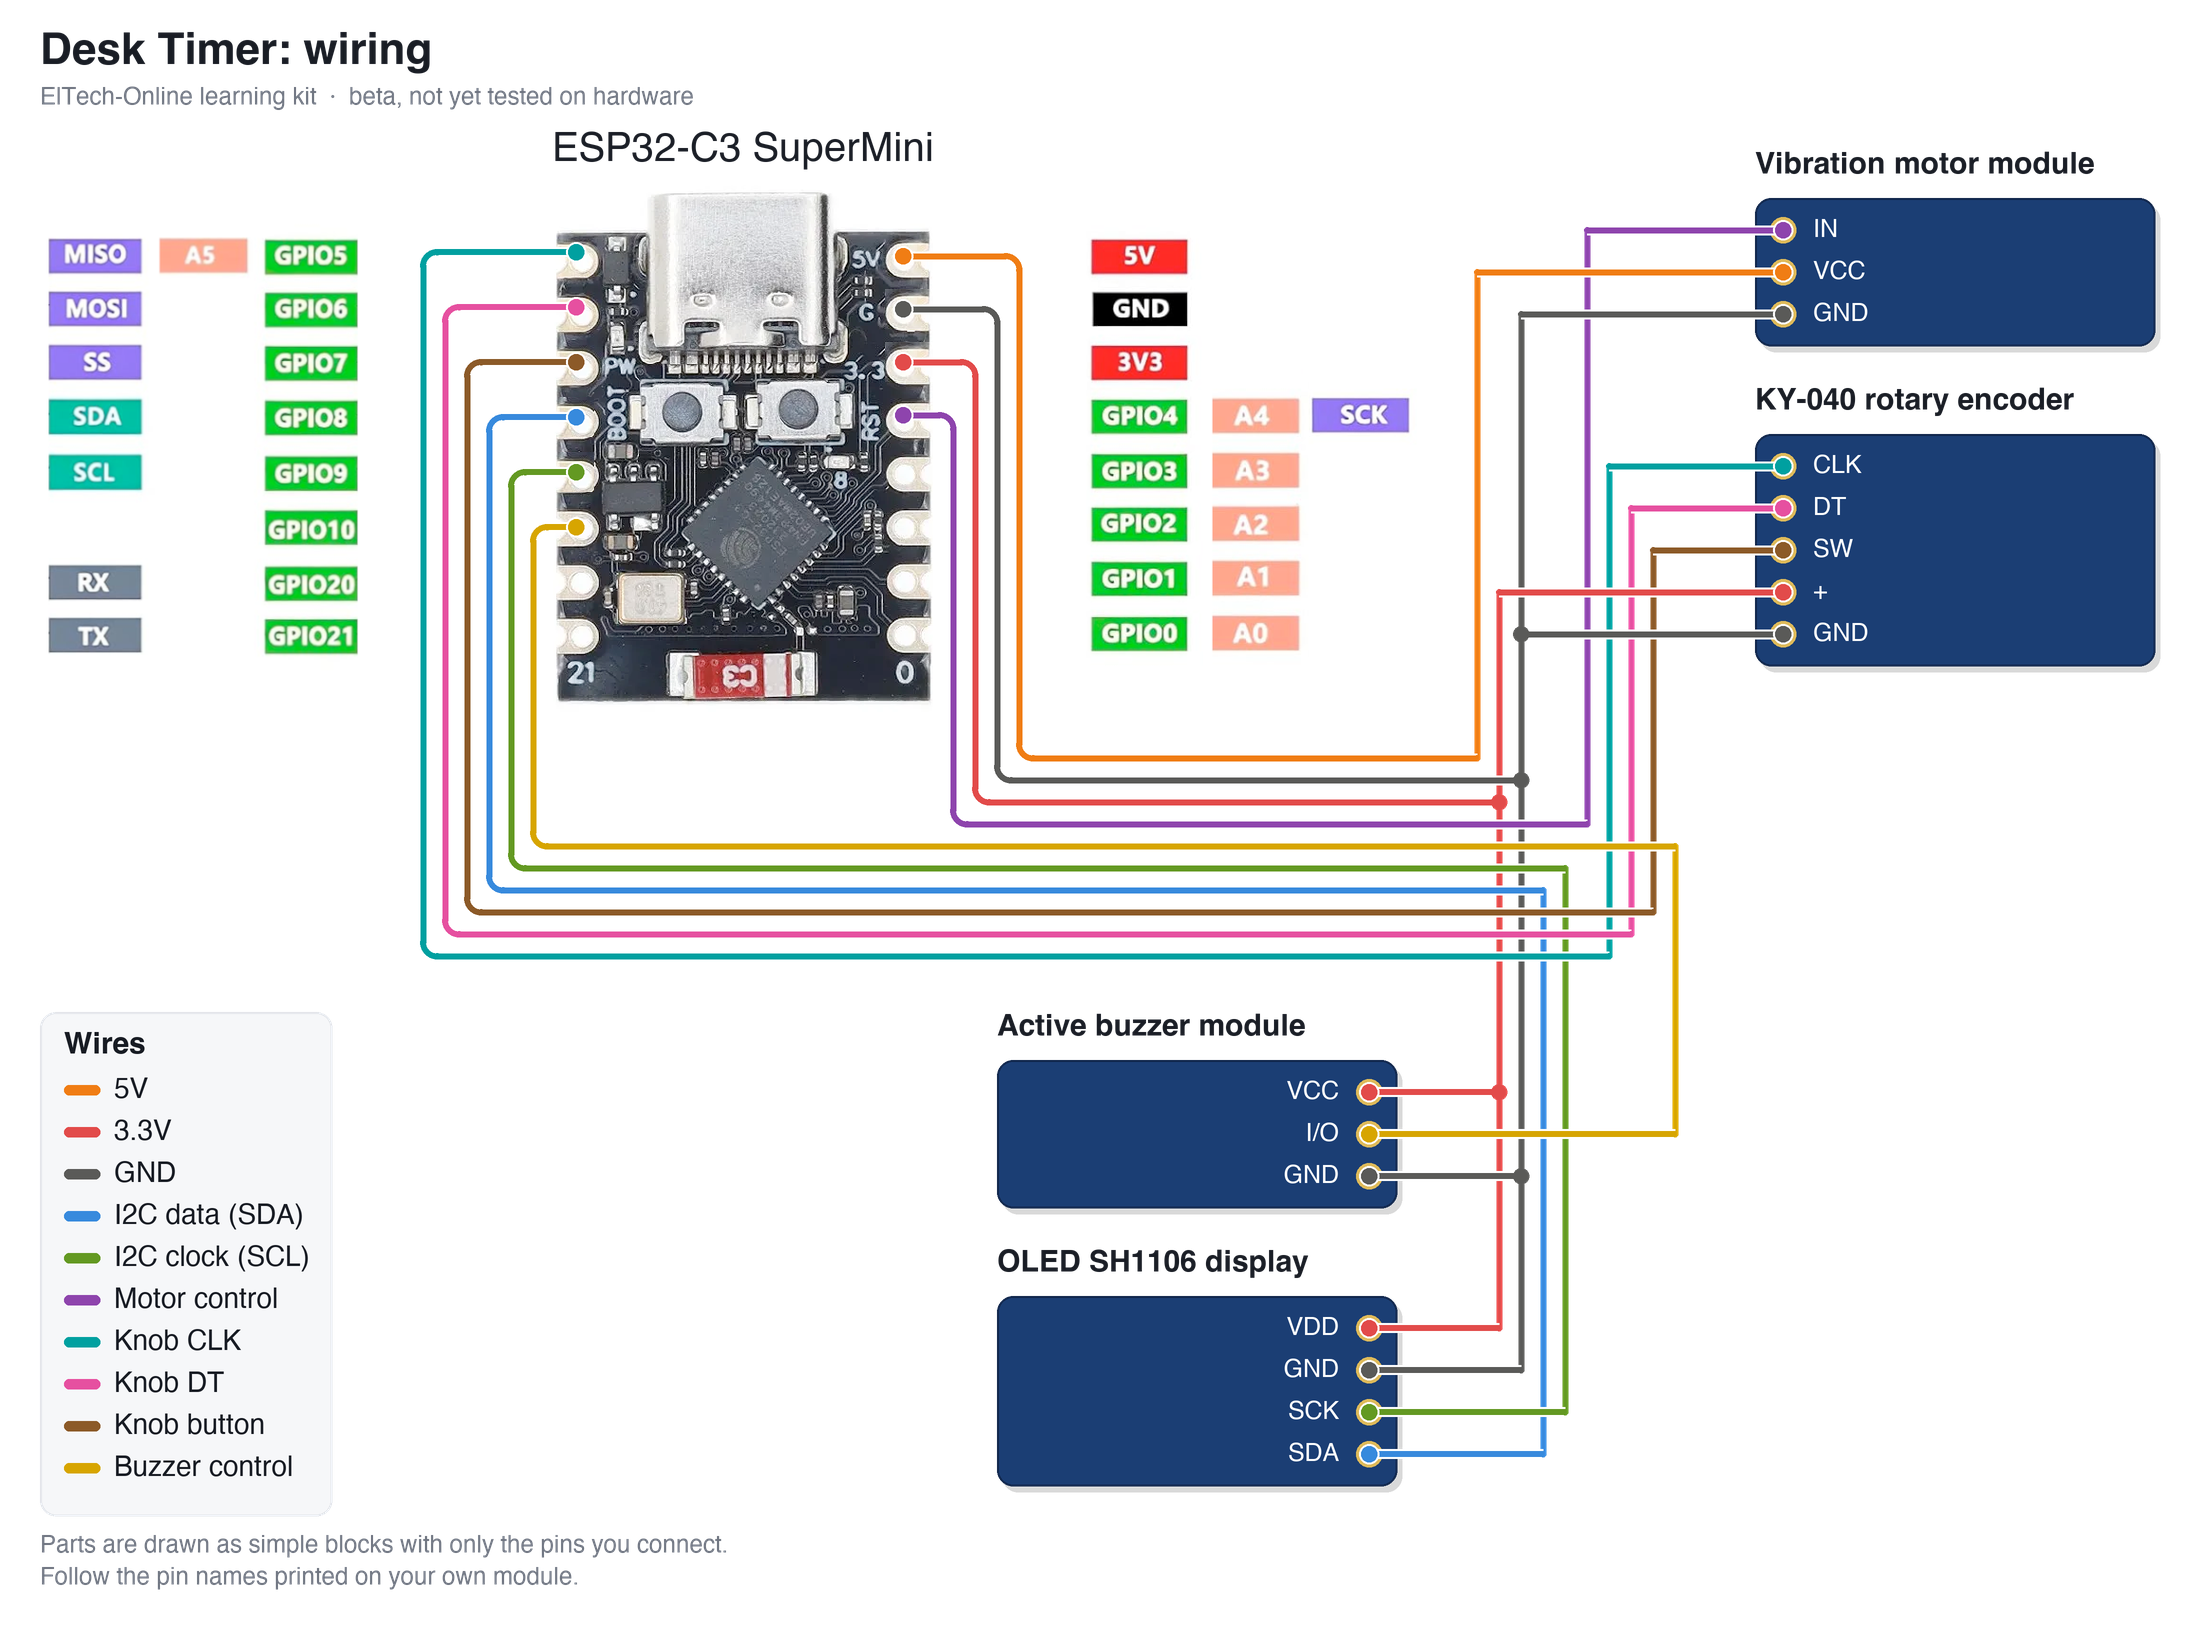
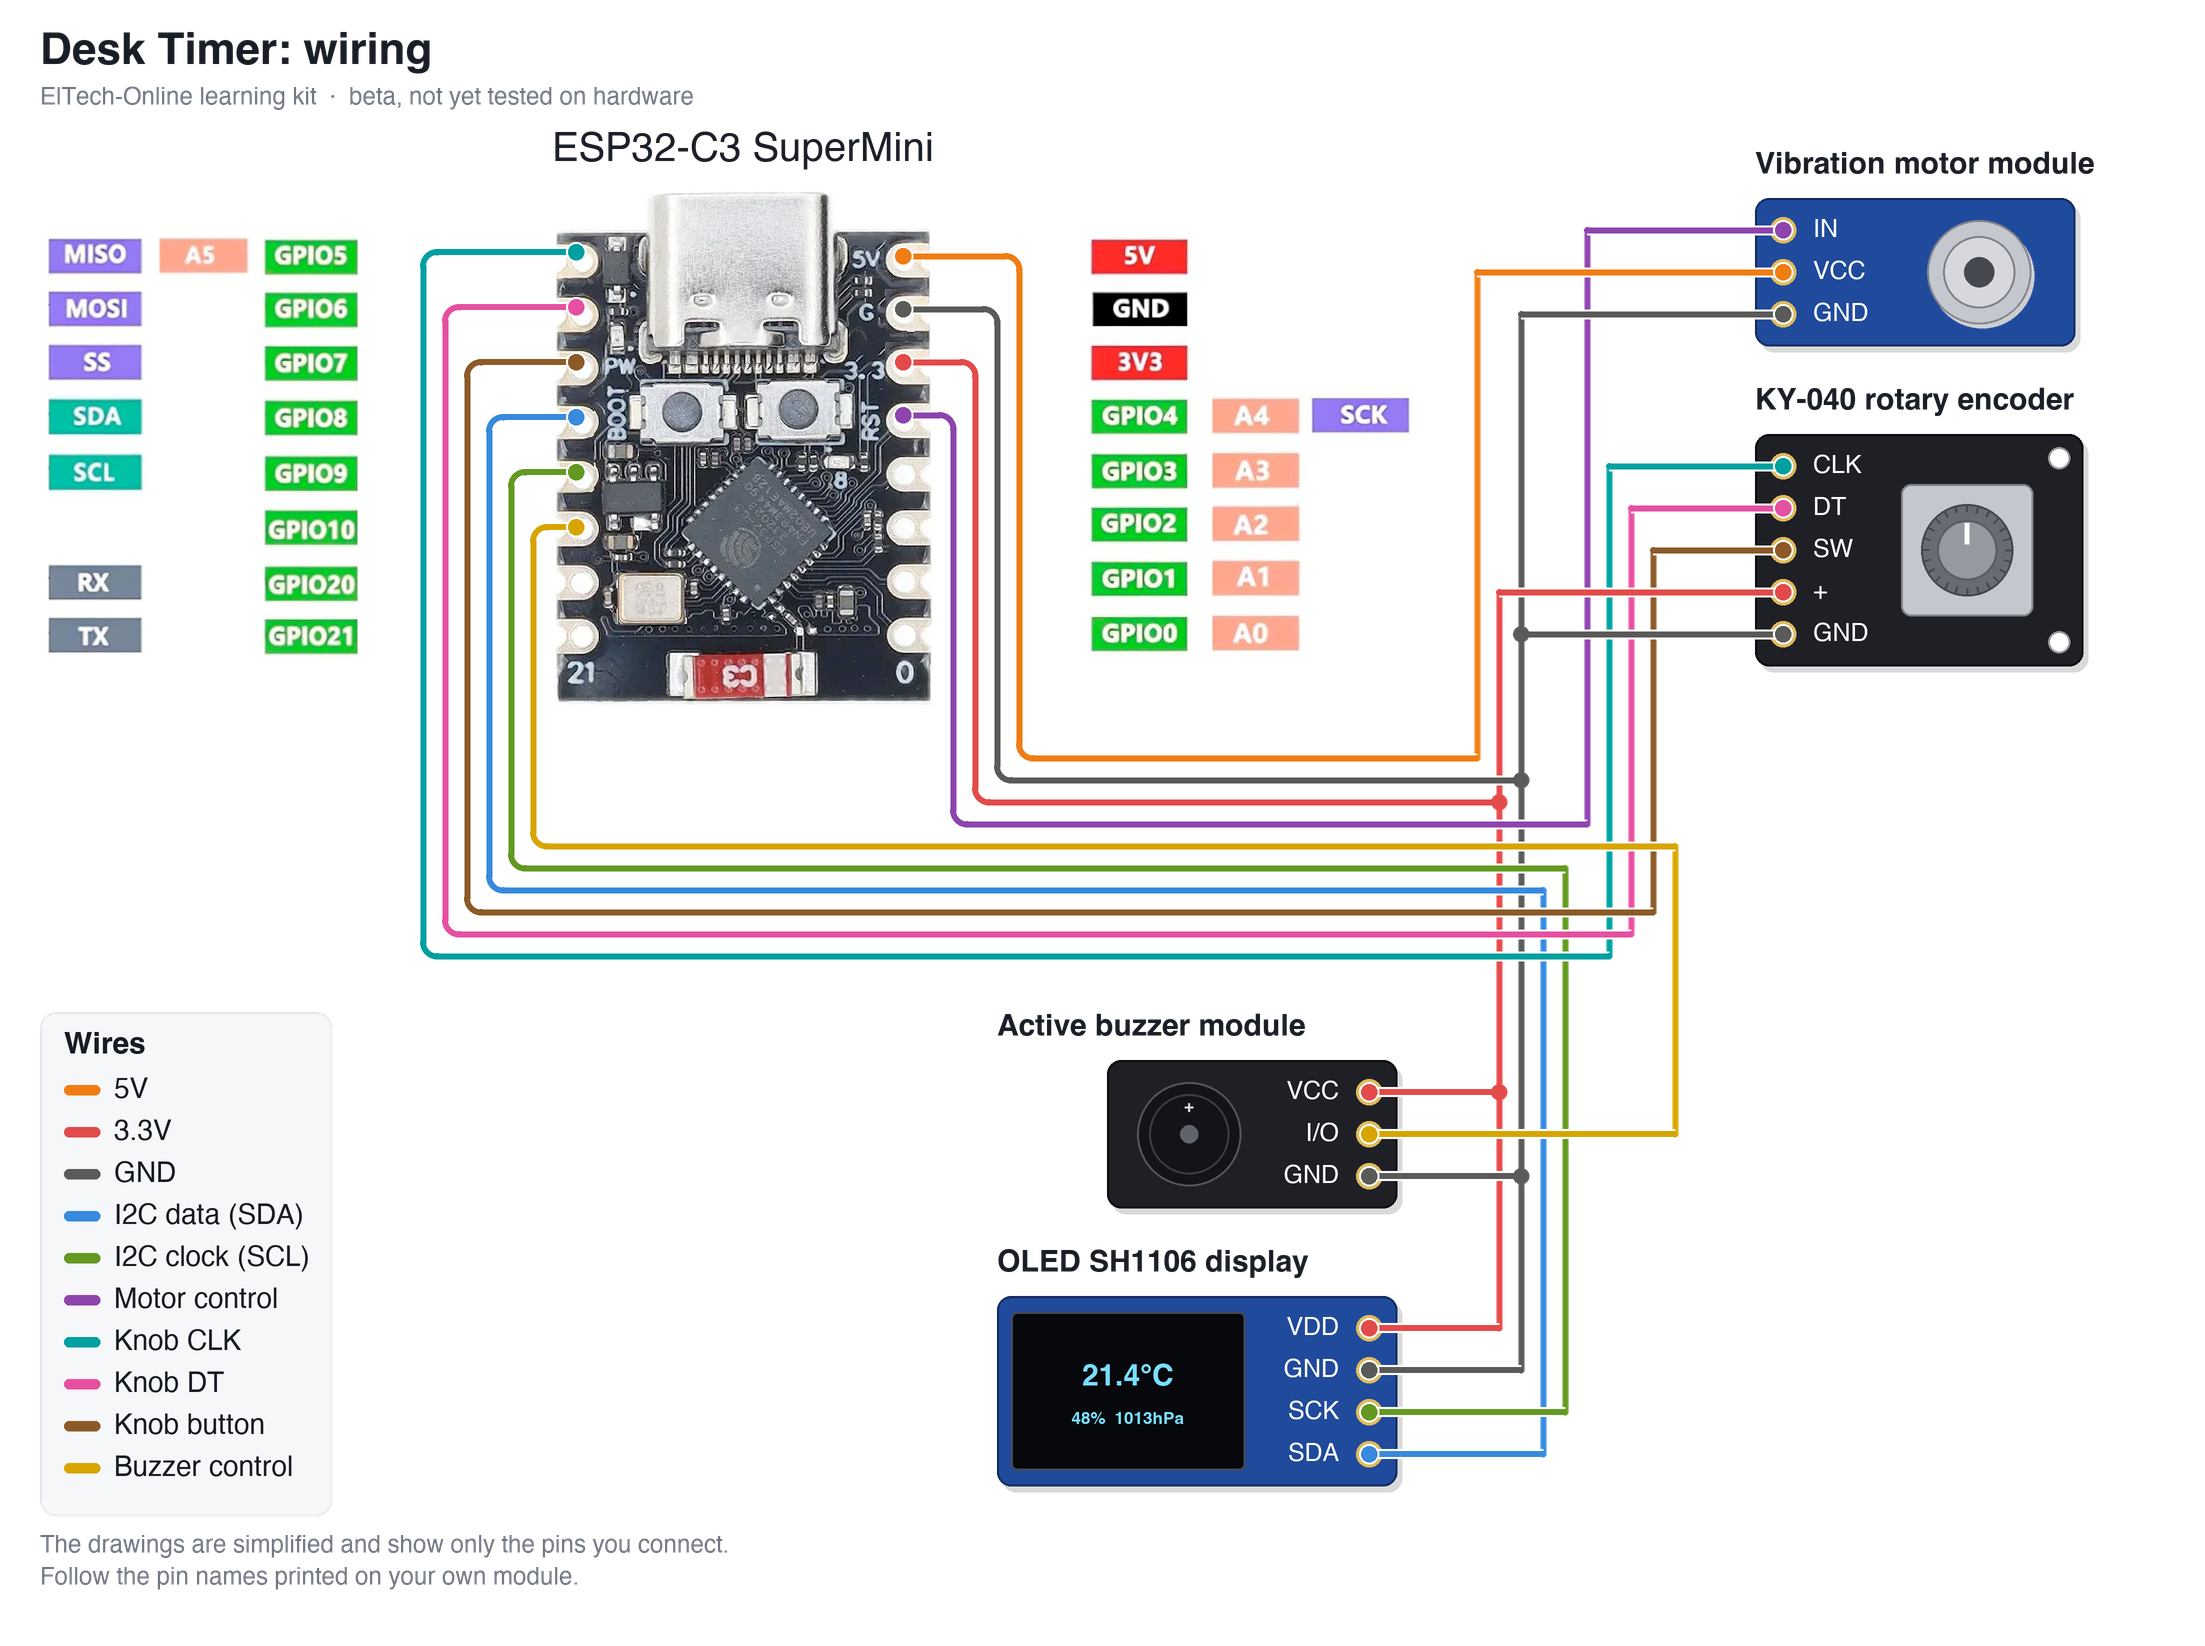
Wiring diagram: draw the parts as pictures instead of plain blocks

diff --git a/README.md b/README.md
@@ -101,7 +101,7 @@ There are **two sketches** in this repo:
 
 ![Wiring diagram: Desk Timer](wiring_diagram.png)
 
-The parts are drawn as simple blocks showing only the pins you connect. **Always follow the labels printed on your own modules** — the pin order differs between manufacturers.
+The parts are drawn in a simplified way, showing only the pins you connect. **Always follow the labels printed on your own modules** — the pin order differs between manufacturers.
 
 Good to know:
 
